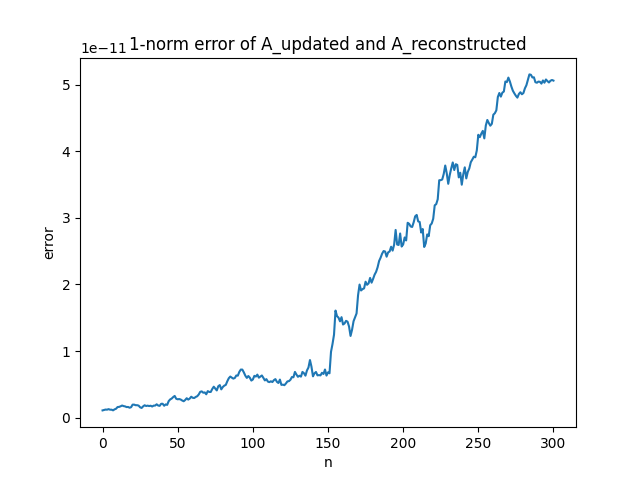
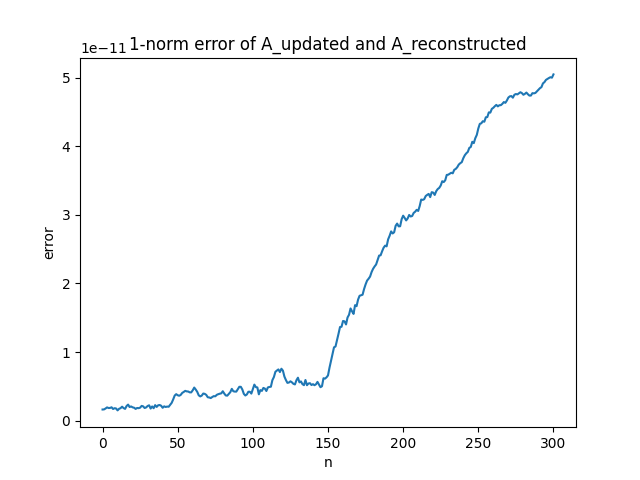
dch2up&dch2dn

diff --git a/test-py/plot_error.py b/test-py/plot_error.py
@@ -6,6 +6,8 @@ matplotlib.use("Agg")  # 设置非交互式后端
 import matplotlib.pyplot as plt
 from dch1up import dch1up
 from dch1dn import dch1dn
+from dch2up import dch2up
+from dch2dn import dch2dn
 
 def polt_error_ch(n, times):
     """
@@ -43,7 +45,7 @@ def polt_error_ch(n, times):
         x_history = np.copy(x)
         x_mat[count - 1, :] = x_history
         # 调用 dqrinc
-        R_updated = dch1up(R_updated, x)
+        R_updated = dch2up(R_updated, x)
         # 验证更新后的 R
         A_updated = A_updated + x_history.reshape(-1, 1) @ x_history.reshape(1, -1)
         A_reconstructed = R_updated.T @ R_updated
@@ -57,13 +59,13 @@ def polt_error_ch(n, times):
         errors1[count] = error1
         errors2[count] = error2
         print(f"finish:{count}")
-    for i in range(190):
+    for i in range(times):
         count += 1
         # 生成随机行向量 x
         x = x_mat[times- (count - times), :]
         x_history = np.copy(x)
         # 调用 dqrinc
-        R_updated = dch1dn(R_updated, x)
+        R_updated = dch2dn(R_updated, x)
         # 验证更新后的 R
         A_updated = A_updated - x_history.reshape(-1, 1) @ x_history.reshape(1, -1)
         A_reconstructed = R_updated.T @ R_updated
@@ -79,8 +81,8 @@ def polt_error_ch(n, times):
         print(f"finish:{count}")
     # print(errors)
     # 截取后200个数据
-    errors1 = errors1[50:351]
-    errors2 = errors2[50:351]
+    # errors1 = errors1[50:351]
+    # errors2 = errors2[50:351]
     plt.plot(errors1)
     plt.xlabel("n")
     plt.ylabel("error")

diff --git a/test-py/dch2dn.py b/test-py/dch2dn.py
@@ -1,0 +1,16 @@
+import numpy as np
+from scipy.linalg import lapack
+from scipy.linalg import solve_triangular
+
+def dch2dn(R, u):
+    column = solve_triangular(R, u, trans=1)
+    row = np.zeros(u.shape[0] + 1)
+    row[0] = (1 - np.linalg.norm(column)**2)**0.5
+    R = np.hstack((column.reshape(u.shape[0],1), R))
+    R = np.vstack((R, row.reshape(1, u.shape[0]+1)))
+    
+    for i in range(u.shape[0], 0, -1):  
+        c, s, r = lapack.dlartg(R[i-1, 0], R[i,0])
+        R[i-1,:], R[i,:] = R[i-1,:]*c+R[i,:]*s, -R[i-1,:]*s+R[i,:]*c
+        
+    return R[1:, 1:]

diff --git a/test-py/dch2up.py b/test-py/dch2up.py
@@ -1,0 +1,8 @@
+import numpy as np
+from scipy.linalg import lapack
+
+def dch2up(R, u):
+    for i in range(u.shape[0]):
+        c, s, r = lapack.dlartg(R[i, i], u[i])
+        R[i,:], u = R[i,:] * c + u * s, -R[i,:] * s + u * c
+    return R
